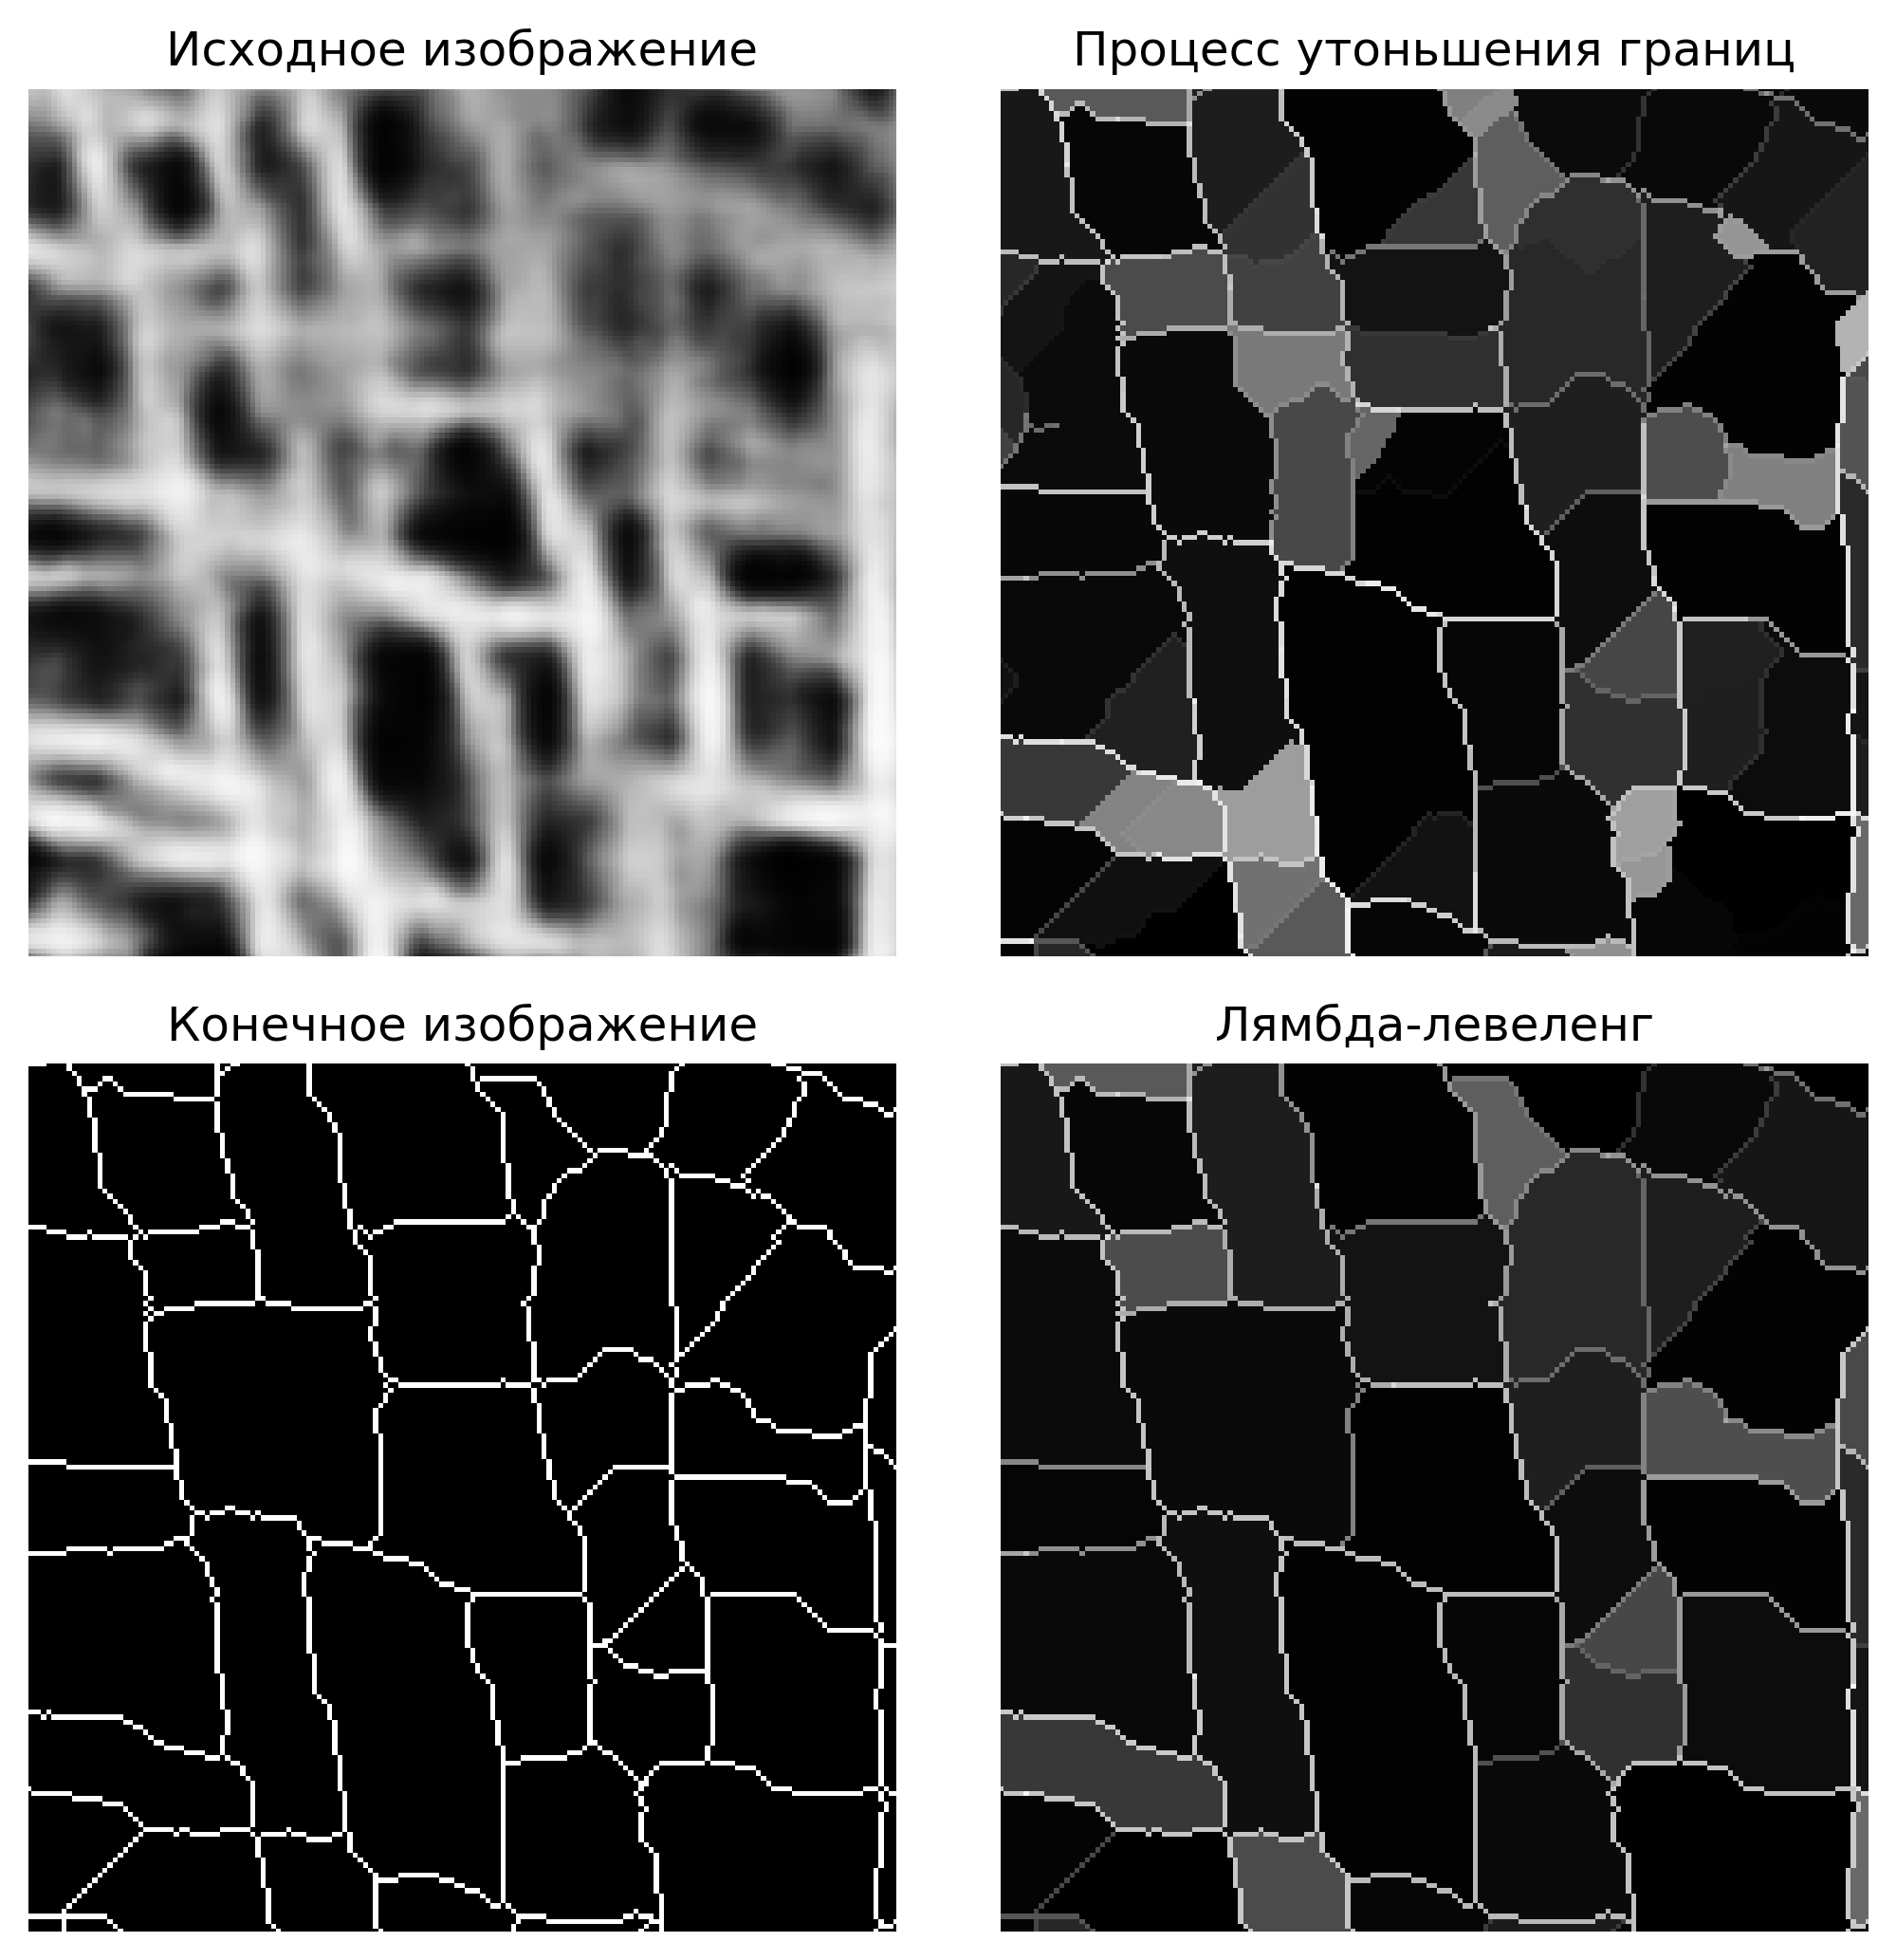
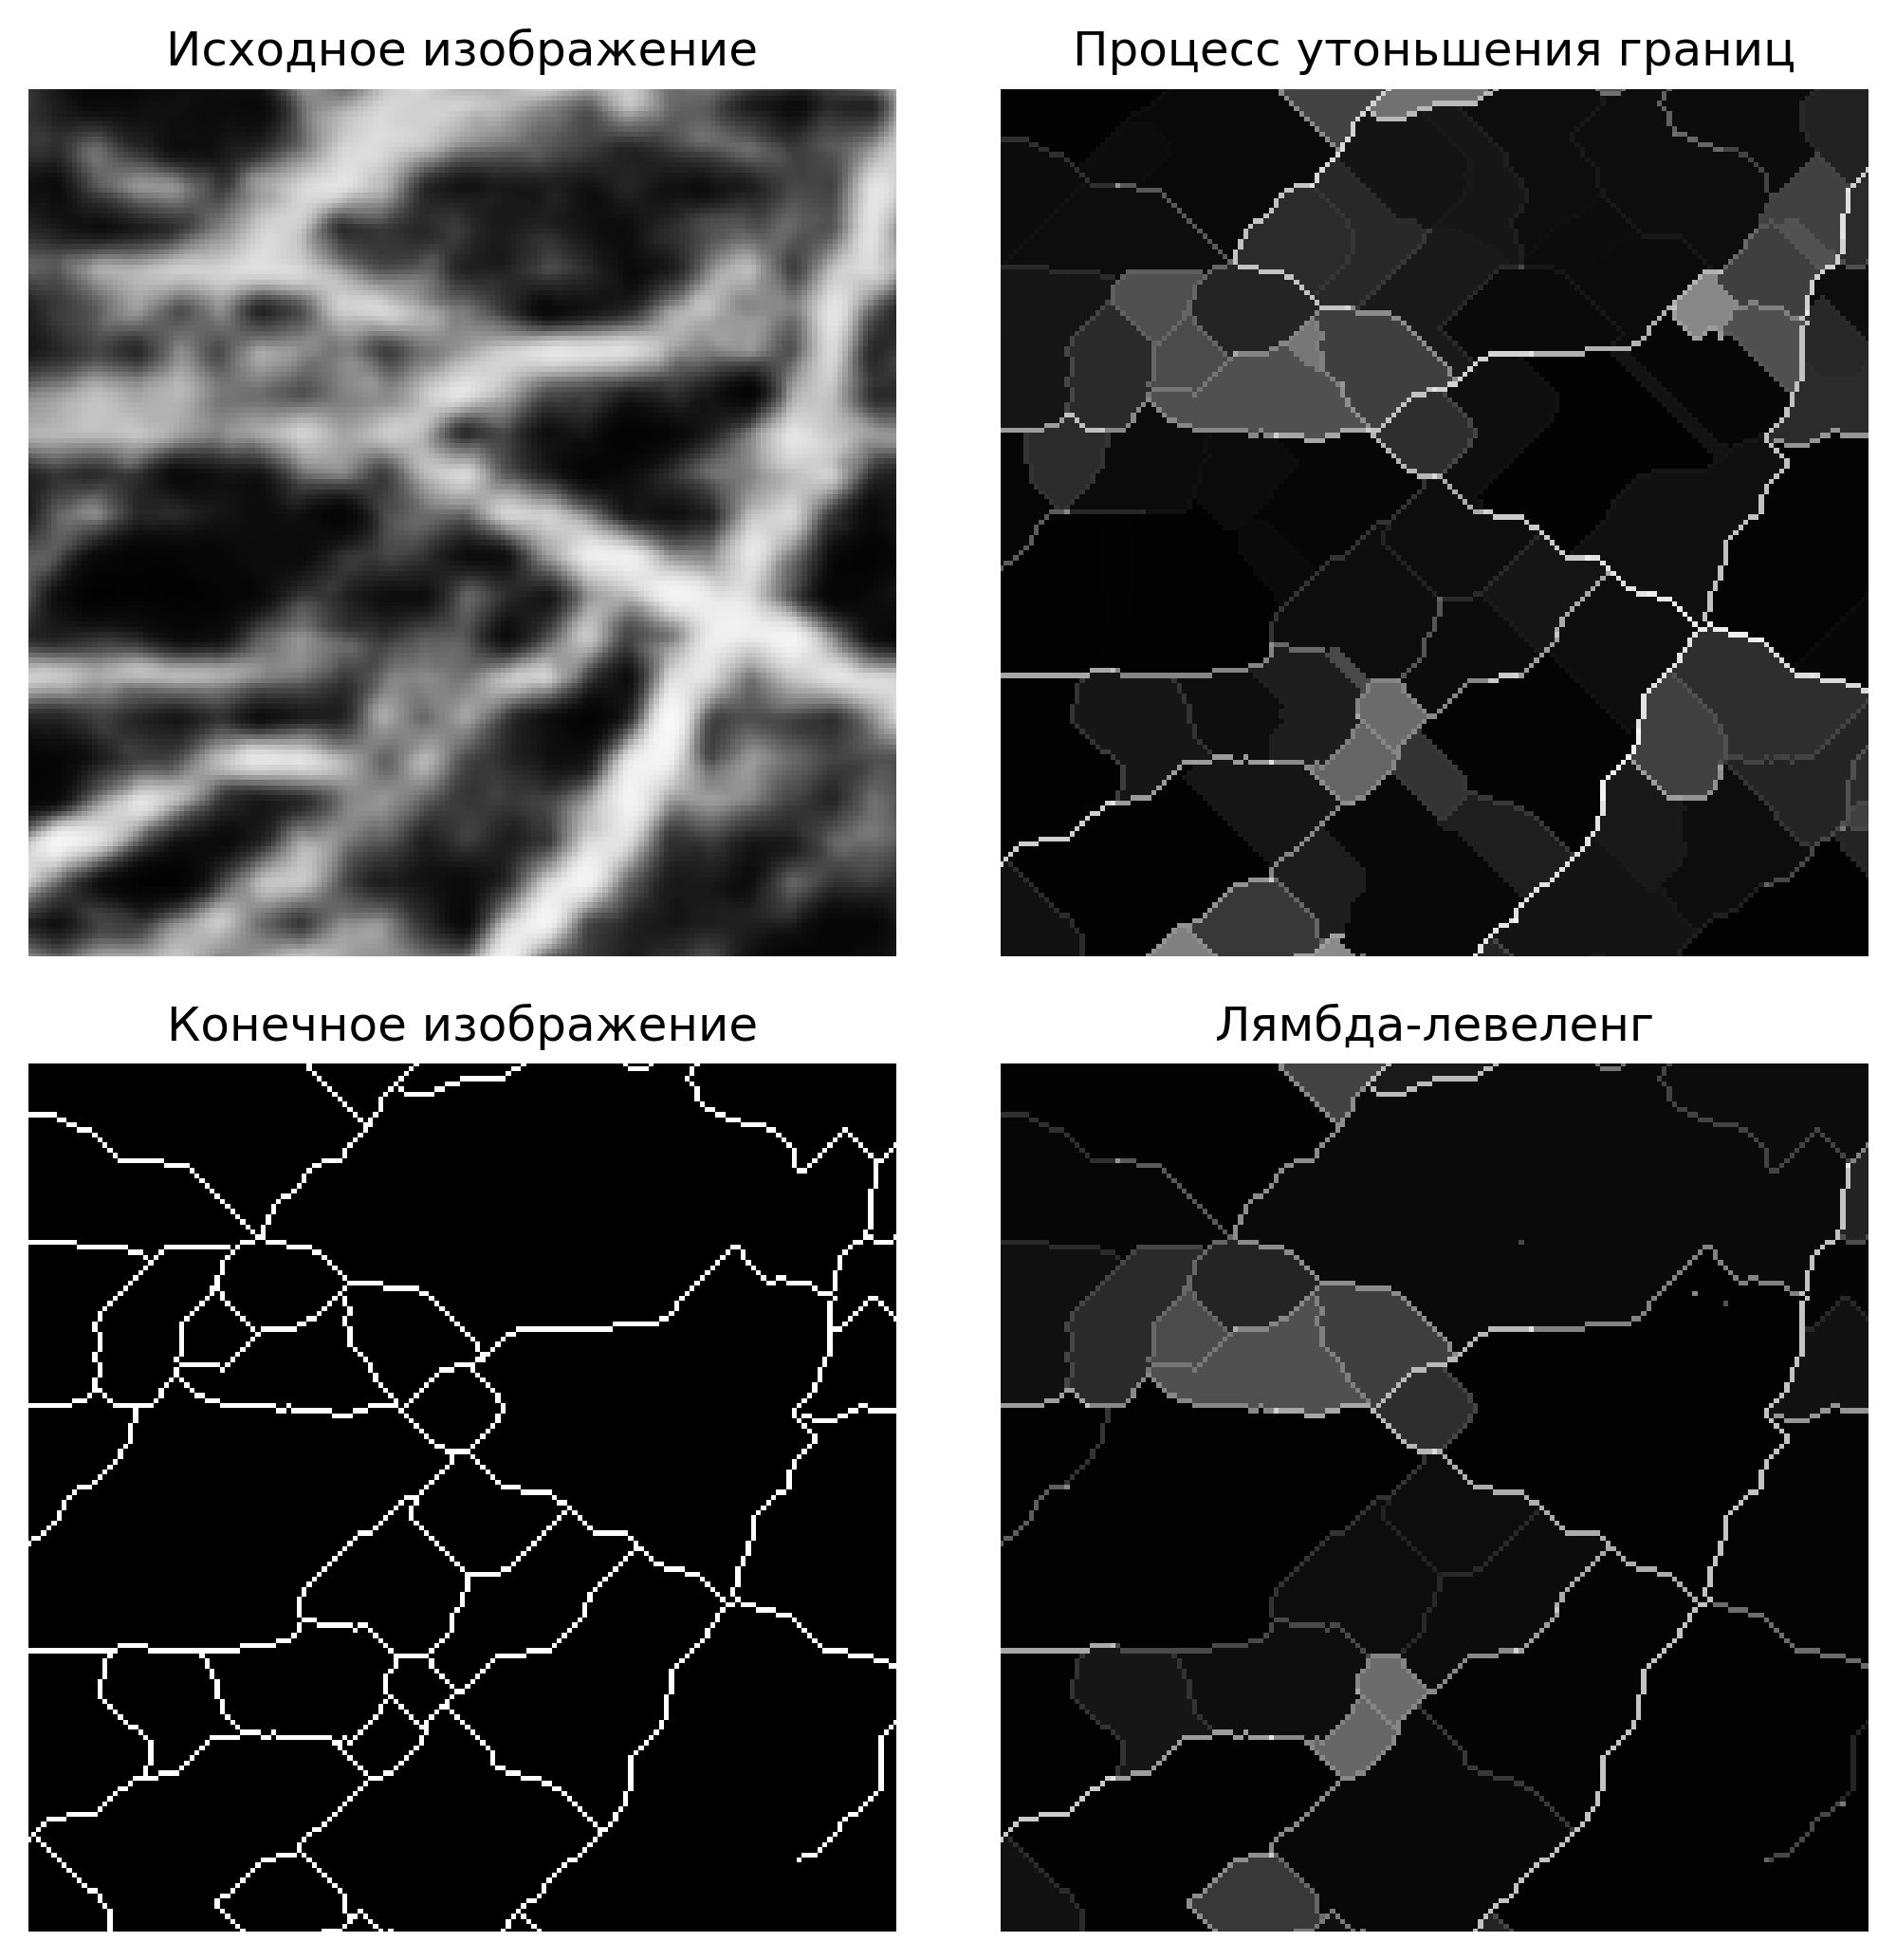
update flatnonzero , bitmask culcs

diff --git a/couprie/jitversion/match_crutial/match_crutial_flat.py b/couprie/jitversion/match_crutial/match_crutial_flat.py
@@ -1,7 +1,7 @@
 import numpy as np
 import numba as nb
 from numba import njit
-
+from ..mctopo.bitmask import bitmask_p_flat
 
 M1 = np.uint8(1 << 0)
 M2 = np.uint8(1 << 1)
@@ -17,51 +17,12 @@ CRUCIAL_C = np.uint8(9)
 
 
 @njit(cache=True, inline="always")
-def match_c_flat(image_flat, destructible_flat, alpha_flat, idx, w):
-    bitmask = bitmask_b_flat(image_flat, idx, w)
-    match_c_right_flat(bitmask, image_flat, destructible_flat, alpha_flat, idx)
-    match_c_left_flat(bitmask, image_flat, destructible_flat, alpha_flat, idx)
-    match_c_up_flat(bitmask, image_flat, destructible_flat, alpha_flat, idx, w)
-    match_c_down_flat(bitmask, image_flat, destructible_flat, alpha_flat, idx, w)
-
-@njit(cache=True, inline="always")
-def bitmask_b_flat(image_flat, idx, w):
-    center = image_flat[idx]
-    mask = np.uint8(0)
-
-    # m1: right
-    if image_flat[np.uintp(idx + 1)] >= center:
-        mask |= M1
-
-    # m2: up-right
-    if image_flat[np.uintp(idx - w + 1)] >= center:
-        mask |= M2
-
-    # m3: up
-    if image_flat[np.uintp(idx - w)] >= center:
-        mask |= M3
-
-    # m4: up-left
-    if image_flat[np.uintp(idx - w - 1)] >= center:
-        mask |= M4
-
-    # m5: left
-    if image_flat[np.uintp(idx - 1)] >= center:
-        mask |= M5
-
-    # m6: down-left
-    if image_flat[np.uintp(idx + w - 1)] >= center:
-        mask |= M6
-
-    # m7: down
-    if image_flat[np.uintp(idx + w)] >= center:
-        mask |= M7
-
-    # m8: down-right
-    if image_flat[idx + w + 1] >= center: mask |= M8
-
-    return mask
-
+def match_c_flat(image_flat, destructible_flat, alpha_flat, bitmasks, p, w):
+    bitmask = bitmask_p_flat(image_flat, p, w)#bitmasks[p]#
+    match_c_right_flat(bitmask, image_flat, destructible_flat, alpha_flat, p)
+    match_c_left_flat(bitmask, image_flat, destructible_flat, alpha_flat, p)
+    match_c_up_flat(bitmask, image_flat, destructible_flat, alpha_flat, p, w)
+    match_c_down_flat(bitmask, image_flat, destructible_flat, alpha_flat, p, w)
 
 @njit(cache=True, inline="always")
 def match_c_right_flat(bitmask, image_flat, destructible_flat, alpha_flat, idx):

diff --git a/couprie/jitversion/mctopo/bitmask.py b/couprie/jitversion/mctopo/bitmask.py
@@ -38,16 +38,41 @@ def bitmask_pp(image, y, x):
     if image[y + 1, x - 1] > c: mask_p |= 1 << 7
     return mask_p
 
+
 @njit(cache=True, inline="always")
 def bitmask_p_flat(image_flat, idx, w):
-    c = image_flat[idx]
-    mask_p = np.uint8(0)
-    if image_flat[np.uintp(idx + w)] >= c: mask_p |= M1
-    if image_flat[np.uintp(idx + w + 1)] >= c: mask_p |= M2
-    if image_flat[np.uintp(idx + 1)] >= c: mask_p |= M3
-    if image_flat[np.uintp(idx - w + 1)] >= c: mask_p |= M4
-    if image_flat[np.uintp(idx - w)] >= c: mask_p |= M5
-    if image_flat[np.uintp(idx - w - 1)] >= c: mask_p |= M6
-    if image_flat[np.uintp(idx - 1)] >= c: mask_p |= M7
-    if image_flat[np.uintp(idx + w - 1)] >= c: mask_p |= M8
-    return mask_p
+    center = image_flat[idx]
+    mask = np.uint8(0)
+
+    # m1: right
+    if image_flat[np.uintp(idx + 1)] >= center:
+        mask |= M1
+
+    # m2: up-right
+    if image_flat[np.uintp(idx - w + 1)] >= center:
+        mask |= M2
+
+    # m3: up
+    if image_flat[np.uintp(idx - w)] >= center:
+        mask |= M3
+
+    # m4: up-left
+    if image_flat[np.uintp(idx - w - 1)] >= center:
+        mask |= M4
+
+    # m5: left
+    if image_flat[np.uintp(idx - 1)] >= center:
+        mask |= M5
+
+    # m6: down-left
+    if image_flat[np.uintp(idx + w - 1)] >= center:
+        mask |= M6
+
+    # m7: down
+    if image_flat[np.uintp(idx + w)] >= center:
+        mask |= M7
+
+    # m8: down-right
+    if image_flat[idx + w + 1] >= center: mask |= M8
+
+    return mask

diff --git a/couprie/skelpar.py b/couprie/skelpar.py
@@ -20,12 +20,13 @@ def lhthinpar(image, copy=True):
 
     h, w = image.shape
     destructible = np.ones((h + 2, w + 2), dtype=np.uint8)
-    update_edge_border_zeros(destructible)
+    set_edge_border_zeros(destructible)
     alpha = np.empty((h + 2, w + 2), dtype=np.uint8)
     bitmask = np.empty((h + 2, w + 2), dtype=np.uint8)
     image_padded = np.pad(image, 1, mode='edge')
     image_padded_flat = image_padded.ravel()
     destructible_flat = destructible.ravel()
+    bitmask_flat = bitmask.ravel()
 
     idx = np.flatnonzero(destructible)
 
@@ -34,9 +35,11 @@ def lhthinpar(image, copy=True):
     h_pad = h + 2
     t_pad_total = 0.0
     t_pdestr4 = 0.0
+    t_flatnonzero = 0.0
     t_alpha8m = 0.0
     t_match_c = 0.0
     t_end = 0.0
+    t_flatnonzero2 = 0.0
     t_mask = 0.0
     for i in range(10000):
         #print(i)
@@ -46,19 +49,25 @@ def lhthinpar(image, copy=True):
 
         t0 = time.perf_counter()
         destructible = pdestr4_center(image_padded, destructible, bitmask, idx)
-        destidx = np.flatnonzero(destructible)
         t_pdestr4 += time.perf_counter() - t0
+
+        t0 = time.perf_counter()
+        destidx = flatones_idx(destructible, idx)
+        t_flatnonzero += time.perf_counter() - t0
 
         t0 = time.perf_counter()
         alpha = alpha8m_center(image_padded, alpha, destidx, w_pad)
         t_alpha8m += time.perf_counter() - t0
 
         t0 = time.perf_counter()
-        match_c_center(image_padded_flat, destructible_flat, alpha_flat, destidx, w_pad)
+        match_c_center(image_padded_flat, destructible_flat, alpha_flat, bitmask_flat, destidx, w_pad)
         t_match_c += time.perf_counter() - t0
 
         t0 = time.perf_counter()
-        idx = np.flatnonzero(destructible == 1)
+        idx = flatones_idx(destructible, idx)
+        t_flatnonzero2 += time.perf_counter() - t0
+
+        t0 = time.perf_counter()
         destructible_kernel_update(destructible_flat, idx, h_pad, w_pad)
         t_mask += time.perf_counter() - t0
 
@@ -75,14 +84,24 @@ def lhthinpar(image, copy=True):
 
     print(f"padding total: {t_pad_total:.6f} sec")
     print(f"pdestr4 total: {t_pdestr4:.6f} sec")
+    print(f"flatnonzero total: {t_flatnonzero:.6f} sec")
     print(f"alpha8m total: {t_alpha8m:.6f} sec")
     print(f"match_c total: {t_match_c:.6f} sec")
+    print(f"flatnonzero2 total: {t_flatnonzero2:.6f} sec")
     print(f"t_mask total: {t_mask:.6f} sec")
     print(f"t_end total: {t_end:.6f} sec")
     return image_padded[1:-1,1:-1]
 
-
-from numba import njit
+@njit(cache=True)
+def flatones_idx(destructible, idx):
+    out = np.empty(idx.size, dtype=idx.dtype)
+    n = 0
+    for i in range(idx.size):
+        p = idx[i]
+        if destructible.flat[p] == 1:
+            out[n] = p
+            n += 1
+    return out[:n]
 
 @njit(cache=True)
 def destructible_kernel_update(destructible, idx, h, w):
@@ -126,12 +145,14 @@ def destructible_kernel_update(destructible, idx, h, w):
                 d[np.uintp(p - w)] = 1
 
 
-@njit(cache=True)
+@njit(cache=True, parallel=True)
 def pdestr4_center(image, destructible, bitmask, idx):
     h, w = image.shape
+    sparse = np.empty(idx.size, dtype=idx.dtype)
+    k = 0
     for i in prange(idx.size):
         p = idx[i]
-        destructible.flat[p] = pdestr4_flat(image.flat, p, w)
+        destructible.flat[p] = pdestr4_flat(image.flat, bitmask.flat, p, w)
     return destructible
 
 @njit(cache=True, parallel=True)
@@ -142,17 +163,18 @@ def alpha8m_center(image, alpha, destridx, w):
     return alpha
 
 @njit(cache=True)
-def match_c_center(image, destructible, alpha, destridx, w):
+def match_c_center(image, destructible, alpha, bitmask, destridx, w):
     image = image.flat
     destructible = destructible.flat
     alpha = alpha.flat
+    bitmask = bitmask.flat
 
     for i in range(destridx.size):
-        flat_idx = destridx[i]
-        match_c_flat(image, destructible, alpha, flat_idx, w)
+        p = destridx[i]
+        match_c_flat(image, destructible, alpha, bitmask, p, w)
 
 
-def update_edge_border_zeros(p):
+def set_edge_border_zeros(p):
     # сначала боковые стороны, только центральная часть
     p[1:-1, 0] = 0
     p[1:-1, -1] = 0

diff --git a/scripts/test_couprie.py b/scripts/test_couprie.py
@@ -21,7 +21,7 @@ def main():
     print("lhthinpar:", time.perf_counter() - t)
 
     t = time.perf_counter()
-    #image_thin = lhthinpar_asymmetric(image)
+    image_thin = lhthinpar_asymmetric(image)
     print("lhthinpar_asymmetric", time.perf_counter() - t)
     #
     # t = time.perf_counter()
@@ -61,8 +61,8 @@ def main():
     # ax3.sharex(ax0)
     # ax3.sharey(ax0)
 
-    ax0.set_xlim([230, 400])
-    ax0.set_ylim([25, 195])
+    #ax0.set_xlim([230, 400])
+    #ax0.set_ylim([25, 195])
 
     plt.tight_layout()
     #plt.savefig("../pictures/example.png", dpi=300, bbox_inches="tight")

diff --git a/couprie/jitversion/mctopo/pdestr4.py b/couprie/jitversion/mctopo/pdestr4.py
@@ -24,10 +24,11 @@ def pdestr4(image, y, x):
     return False
 
 @njit(cache=True, inline="always")
-def pdestr4_flat(image, p, w):
+def pdestr4_flat(image, bitmasks, p, w):
     bitmask = bitmask_p_flat(image, p, w)
     t4mm = T4_ZEROS[bitmask]
     t8p = T8_ONES[bitmask]
+    bitmasks[p] = bitmask
     if t4mm == 1 and t8p == 1:
         return True
     return False